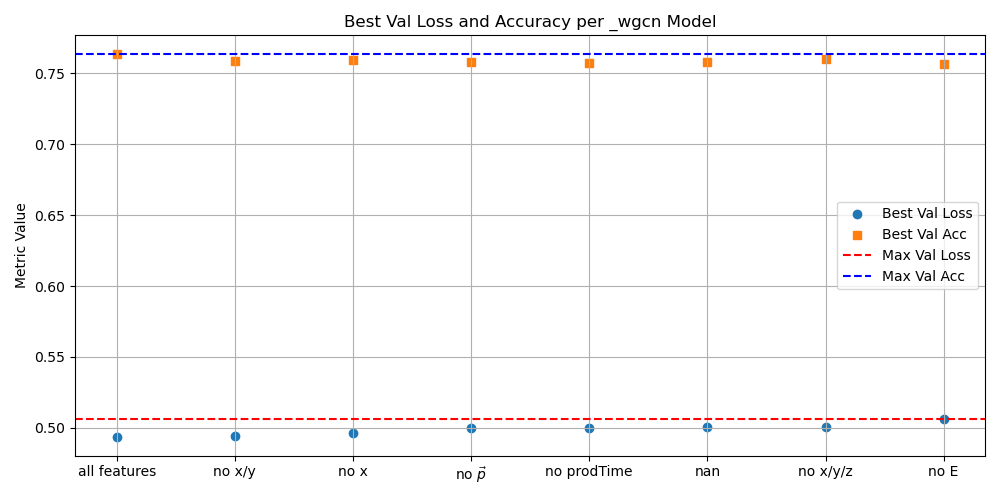
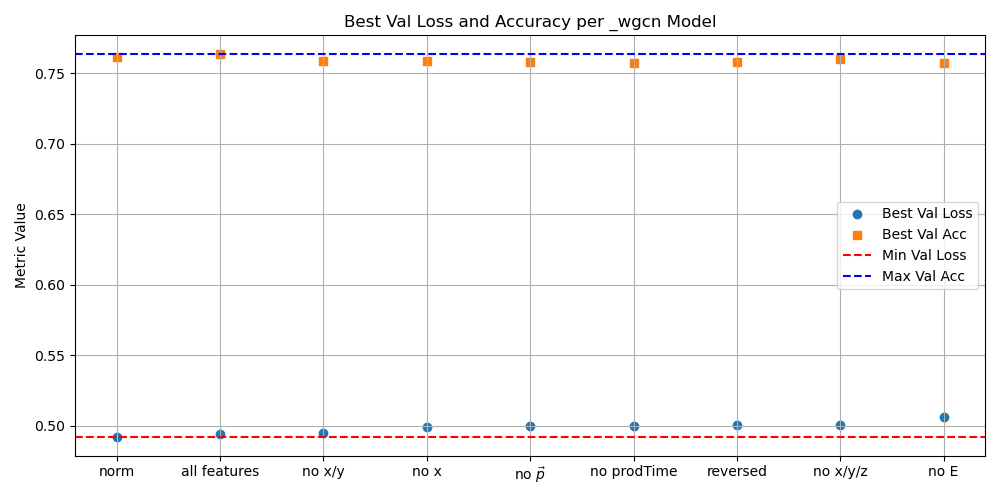
added normalized model!

diff --git a/models.py b/models.py
@@ -168,6 +168,30 @@ class CombinedModel_wGCN(nn.Module):
         return x
 
 
+class CombinedModel_wGCN_Normalized(nn.Module):
+    def __init__(self, num_feat=8, embed_dim=8, num_pdg_ids=len(PDG_MAPPING), units=32):
+        super().__init__()
+        self.model = CombinedModel_wGCN(
+            num_feat=num_feat,
+            embed_dim=embed_dim,
+            num_pdg_ids=num_pdg_ids,
+            units=units
+        )
+
+    def normalize_inputs(self, inputs):
+        x = inputs["feat"]
+        # x.shape = (batch_size, num_particles, num_features)
+        mean = x.mean(dim=(0,1), keepdim=True) # Collapse batch and particle dimensions end up with (num_featurs) -> one mean per feature!
+        std = x.std(dim=(0,1), keepdim=True) + 1e-8  # avoid divide-by-zero
+        x_norm = (x - mean) / std
+        return {**inputs, "feat": x_norm}
+
+    def forward(self, inputs, mask=None):
+        inputs = self.normalize_inputs(inputs)
+        x = self.model(inputs, mask)
+        return x
+
+
 def from_config(config):
     """
     Mapping of model_name to model (useful for streamlining studies)
@@ -178,6 +202,7 @@ def from_config(config):
         "gcn": GraphNetwork,
         "deepset_gcn": DeepSet_GCN,
         "deepset_combined_wgcn": CombinedModel_wGCN,
+        "deepset_combined_wgcn_normalized" :  CombinedModel_wGCN_Normalized
     }
     config = config.copy()
     return models[config.pop("model_name")](**config)

diff --git a/compare_model_features.py b/compare_model_features.py
@@ -14,7 +14,9 @@ x_axis_map = {
     "deepset_combined_wgcn_no_prodTime": "no prodTime",
     "deepset_combined_wgcn_no_x_y": "no x/y",
     "deepset_combined_wgcn_no_x_y_z": "no x/y/z",
-    "deepset_combined_wgcn_no_x"     : "no x"
+    "deepset_combined_wgcn_no_x"     : "no x",
+    "deepset_combined_wgcn_normalize" : "norm",
+    "deepset_combined_wgcn_reversed" : "reversed"
 }
 
 
@@ -44,7 +46,7 @@ print(summary_df)
 
 # Get the maximum validation loss and validation accuracy 
 
-max_val_loss= summary_df["best_val_loss"].max()
+max_val_loss= summary_df["best_val_loss"].min()
 max_val_acc= summary_df["best_val_acc"].max()
 
 # Draw vertical line between them on y-axis at a fixed x position (e.g., to the right of the plot)
@@ -57,7 +59,7 @@ plt.scatter(x, summary_df["best_val_loss"], marker="o", label="Best Val Loss")
 plt.scatter(x, summary_df["best_val_acc"], marker="s", label="Best Val Acc")
 plt.xticks(x, summary_df["x_axis_mapping"], rotation=0, ha="center")
 
-plt.axhline(y=max_val_loss, color='red', linestyle='--', label='Max Val Loss')
+plt.axhline(y=max_val_loss, color='red', linestyle='--', label='Min Val Loss')
 plt.axhline(y=max_val_acc, color='blue', linestyle='--', label='Max Val Acc')
 
 plt.ylabel("Metric Value")

diff --git a/workbook.py b/workbook.py
@@ -20,11 +20,11 @@ from models import from_config
 
 def main():
     # --- Select Model ---
-    tag = "deepset_combined_wgcn_no_x"
+    tag = "deepset_combined_wgcn_normalize"
     print("Selected model: ", tag)
 
     # --- Configuration ---
-    feature_columns = ["y","z","energy","px", "py", "pz"]
+    feature_columns = ["prodTime","y","z","energy","px", "py", "pz"]
     dataset_path = "smartbkg_dataset_4k.parquet"
     pdg_map_path = "pdg_mapping.json"
     save_path = Path("saved_models")
@@ -68,7 +68,7 @@ def main():
     num_feat = len(feature_columns)
 
     config = {
-        "model_name": "deepset_combined_wgcn",
+        "model_name": "deepset_combined_wgcn_normalized",
         "units": 32,
         "num_feat": num_feat
     }
